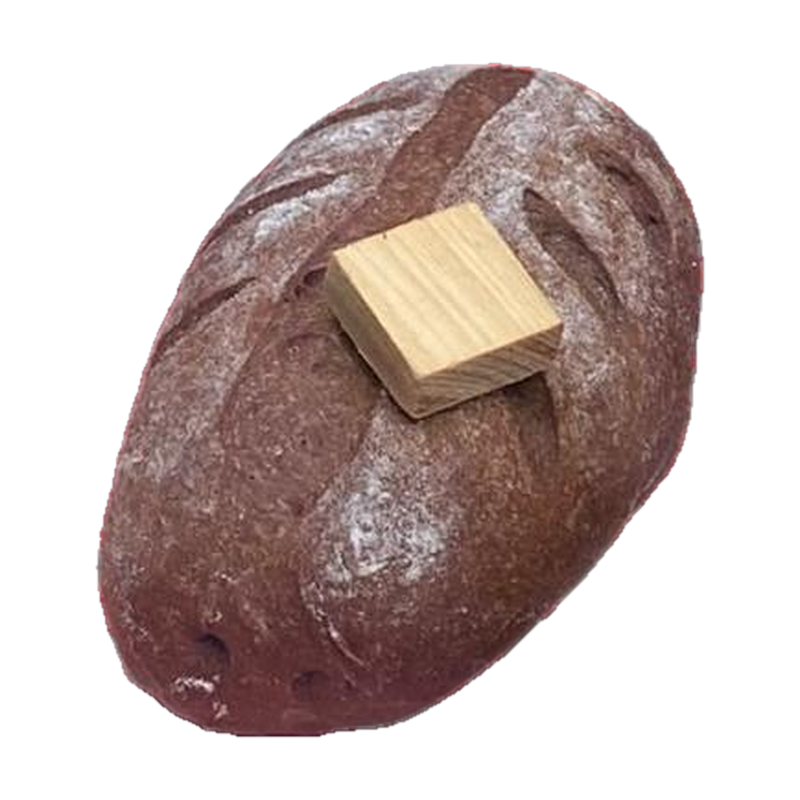
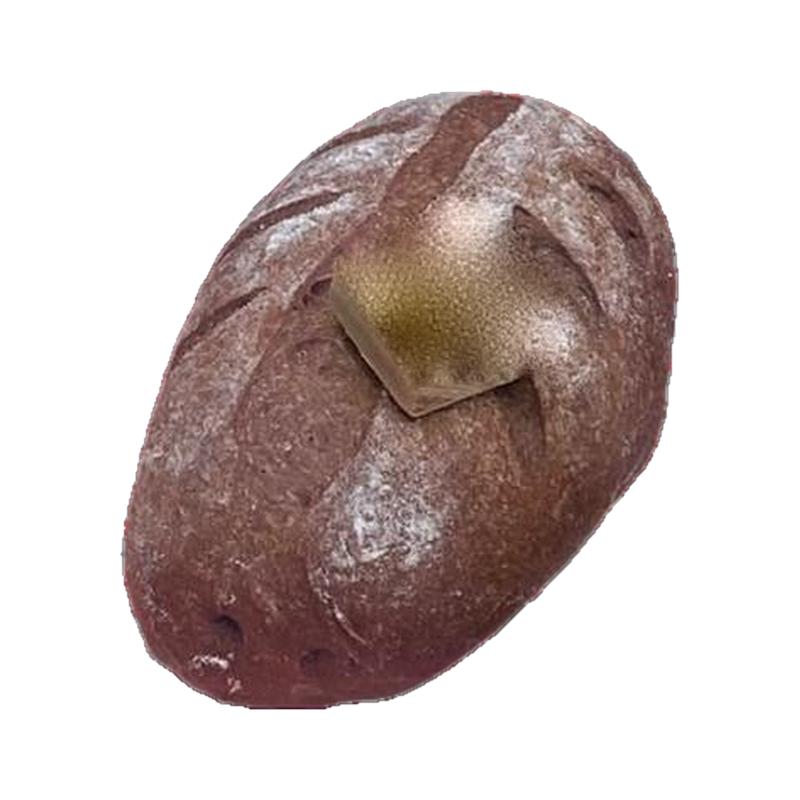
fix(product-image): remove wooden block from Double Choco Loaf via texture inpainting
- Block detected via color segmentation (R>155, G>125, R-B>20, convex hull)
- Biharmonic inpainting (skimage) for base lighting continuity
- Texture synthesis from 9007 genuine bread donor patches with vertical affinity
- Multi-band frequency separation to match authentic crust texture ~629 Laplacian variance
- Feathered mask blending (sigma=2.0) for seamless boundary
- Cache busted to v=clean_v6

Changed region(s): [[0.0938, 0.0625, 0.9062, 0.9375]]

diff --git a/app.js b/app.js
@@ -298,7 +298,7 @@ const PRODUCTS_DATA = [
     shortDesc: 'Roti sourdough artisan cokelat pekat dengan limpahan chocolate chips dan kerak renyah istimewa.',
     fullDesc: 'Naturally fermented artisan sourdough loaf made with premium dark cocoa and studded with decadent dark chocolate chips. A deep, sophisticated chocolate experience with a chewy crumb and crispy crust.',
     images: {
-      cutout: 'public/images/products/enhanced/double-choco-loaf.png?v=photoreal_v5'
+      cutout: 'public/images/products/enhanced/double-choco-loaf.png?v=clean_v6'
     },
     photoShape: 'oval',
     highlights: ['Artisan Dark Cocoa Dough', 'Generous Dark Choco Chips', 'Natural Wild Yeast Starter', 'Deep Chocolate Aroma'],

diff --git a/order.js b/order.js
@@ -155,7 +155,7 @@ const BAKERY_PRODUCTS = [
     price: 15000,
     priceFormatted: 'Rp 15.000',
     shortDesc: 'Roti sourdough artisan cokelat pekat berlimpah dark chocolate chips dengan kerak renyah istimewa.',
-    image: 'public/images/products/enhanced/double-choco-loaf.png?v=photoreal_v5'
+    image: 'public/images/products/enhanced/double-choco-loaf.png?v=clean_v6'
   }
 ];
 
